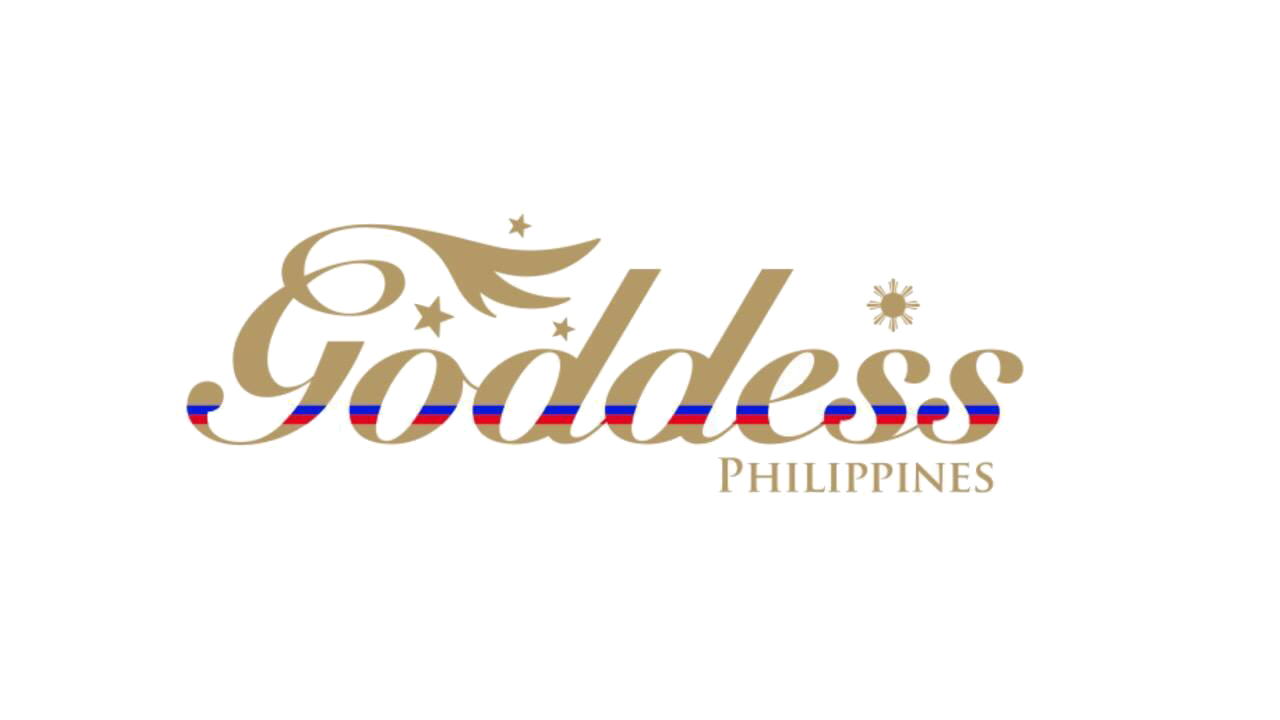
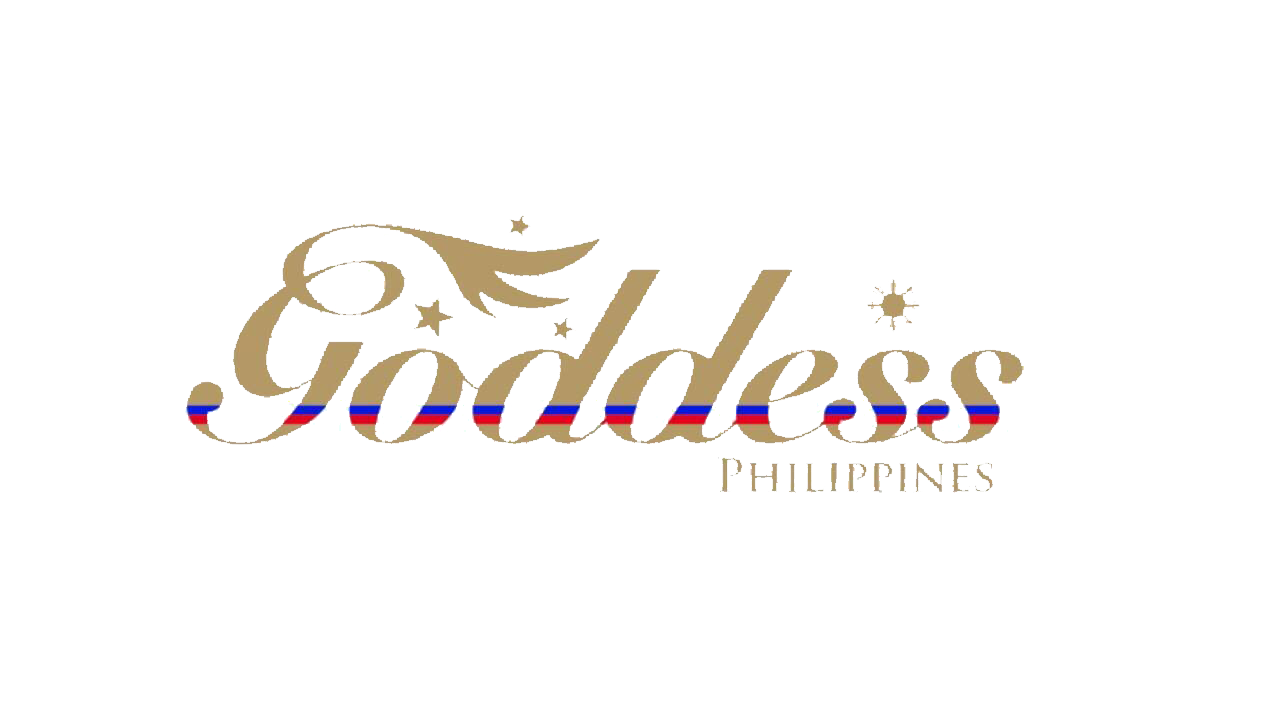
Header image temporary

diff --git a/css/main.css b/css/main.css
@@ -230,20 +230,15 @@ p {
 
 /*==== MAIN SECTION ====*/
 
-#myCarousel {
-  margin-top: 70px!important;
-}
-
-.carousel-inner>.item>img {
-  height: 300px;
+.slide {
   width: 100%;
+  height: 500px;
+  background-color: #191919;
+  text-align: center;
 }
 
-/* events */
-
-.events {
-  background: url("https://hd.unsplash.com/photo-1466907840060-8934465084e5");
-  background-size: cover;
-  background-repeat: no-repeat;
-  height: 250px;
+.goddess-header {
+  height: 200px;
+  width: 400px;
+  margin-top: 45%;
 }

diff --git a/index.html b/index.html
@@ -46,7 +46,10 @@
         </ul>
       </div>
     </div>
-    <!-- NAVIGATION END -->
+    <!-- SLider -->
+    <div class="slide">
+      <img src="img/goddess.png" alt="goddess logo" class="goddess-header">
+    </div>
 
     <!-- jQuery (necessary for Bootstrap's JavaScript plugins) -->
     <script src="https://ajax.googleapis.com/ajax/libs/jquery/1.12.4/jquery.min.js"></script>
